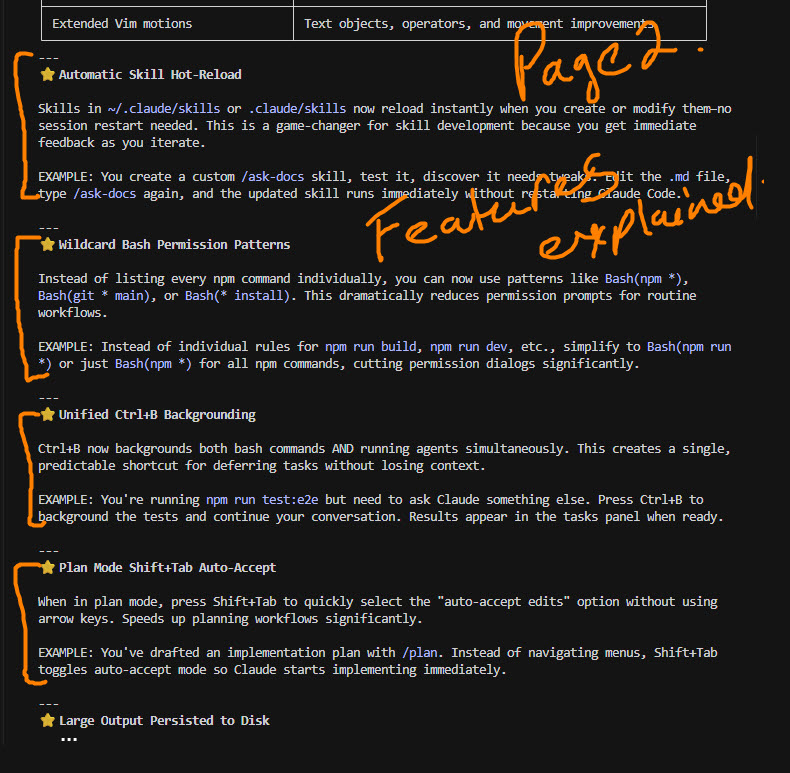
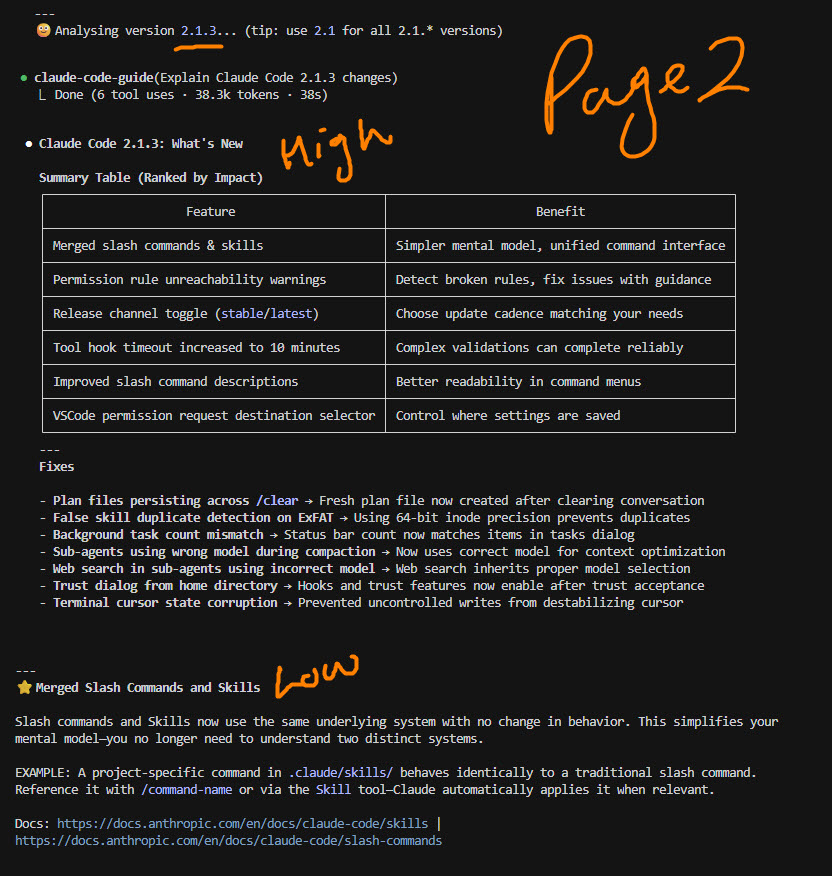
refactor(cc-whats-new): delegate changelog reading to subagent
- Remove inline changelog insertion from main agent prompt
- Have claude-code-guide subagent read /tmp/cc-whats-new-version-changelog.md directly
- Add explicit run_in_background: false instruction

Additional improvements:
- Replace ASCII box tables with standard markdown tables
- Add WebFetch step to consult official Claude Code docs for features
- Structure fixes with explicit Problem → Resolution format
- Add verification step and Docs: citation field to feature template
- Bump version to 0.2.0

Documentation:
- Update all 3 screenshots to reflect new output format
- Revise README alt text to describe each phase (discovery, analysis, explanations)
- Update generation date to 2026/01/13

Reduces main context window usage by avoiding changelog duplication.
Improves output quality through live documentation fetching and structured formatting.

Changed region(s): [[0.0, 0.0, 0.9722, 0.4968], [0.0, 0.5278, 0.9418, 0.9625]]

diff --git a/plugins/cc-whats-new/commands/explain.md b/plugins/cc-whats-new/commands/explain.md
@@ -55,23 +55,21 @@ echo "";
 echo "</latest_version_summary>";
 ```
 
-Analyse data in `<latest_version_summary>` tags and display welcome message using this template (use backticks):
+Analyse data in `<latest_version_summary>` tags to populate template (use backticks and emoji "🙂"):
 
 <welcome_message_template>
 
 # KNOW WHAT CHANGED IN CLAUDE CODE
 
-Claude Code has `[total_versions]` versions within (`[latest]` → `[earliest]`). Most have a **changelog entry** — one or more **items** describing what changed. Your Claude Code version is `[user_version]`.
+Claude Code has `[total_versions]` versions within (`[latest]` → `[earliest]`). Most have a **changelog entry** — one or more **items** describing what changed.
 
-🎁 Latest `[N]` Versions:
+🙂 Latest `[N]` Versions:
 
-┌─────────┬────────────┬───────┬────────────────────────────────────────────────────┐
-│ Version │ Released   │ Items │ Changes At A Glance                                │
-├─────────┼────────────┼───────┼────────────────────────────────────────────────────┤
-│ x.x.xxx │ YYYY-MM-DD │    nn │ Most impactful on user experience (40-60 chars)    │
-│ x.x.xxx │ YYYY-MM-DD │     0 │ (no changelog entry)                               │
-│ ...     │ ...        │   ... │                                                    │
-└─────────┴────────────┴───────┴────────────────────────────────────────────────────┘
+| Version | Released | Items | Changes At A Glance |
+| ------- | -------- | ----- | ------------------- |
+| `x.x.x` | YYYY-MM-DD | nn | Most impactful change (40-50 chars) |
+| `x.x.x` | YYYY-MM-DD | 0 | (no changelog entry) |
+| ... | ... | ... | ... |
 
 *[Short note why version may have zero items (if applicable)]*
 
@@ -114,30 +112,39 @@ else
 fi
 
 echo "$SECTION" > "$VERSION_CHANGELOG_FILE"
-echo "✅ Version changelog ready: $VERSION_CHANGELOG_FILE"
+echo "✅ Version changelog created: $VERSION_CHANGELOG_FILE"
 ```
 
 Proceed to Step 5 where this changelog will be provided to the agent.
 
 ## Step 5: Explain Changes Practically
 
-Use the Task tool to spawn `claude-code-guide` agent. Read the version changelog file and include its contents in the prompt:
+Use the Task tool to spawn `claude-code-guide` agent in **foreground mode** (`run_in_background: false`) with the following prompt:
 
 <agent_prompt>
 
-**GOAL:** Help users use Claude Code more effectively by explaining what's new in version `[VERSION]`.
+**GOAL:** Help users leverage new Claude Code features in version `[VERSION]` — what they mean, why they matter, and how to use them.
 
-Changelog entries:
+Steps:
 
-<changelog_entries>
-{{READ AND INSERT CONTENTS OF `/tmp/cc-whats-new-version-changelog.md` HERE}}
-</changelog_entries>
+1. Read and analyse changelog: `/tmp/cc-whats-new-version-changelog.md`
 
-1. Evaluate which changes highly impact Claude Code user experience.
+2. Evaluate which changes most impact Claude Code users.
 
-2. Create a **Summary table:** "Feature | Benefit". Rank by impact on Claude Code users (most impactful first). Width <100 characters. Group fixes separately if many items.
+3. Create a **Summary table:** "Feature | Benefit". Rank by impact (most impactful first). Width <100 chars.
 
-3. Explain **significant features:** using the `<explain_features_template>` below and your Claude Code Guide knowledge for useful examples.
+4. List **Fixes:** separately e.g.,
+
+    ```
+    **Fixes:**
+    - [Problem ➜ Resolution]
+    - [eg Plan files after /clear ➜ Fresh plan file now used]
+    - [eg Web search model in sub-agents ➜ Uses correct model]
+    ```
+
+5. For each significant feature in the table, use WebFetch to consult official Claude Code documentation for the relevant topic.
+
+6. Explain **significant features** using the template below. Enhance explanations and examples with useful information from the documentation where relevant, and include citations.
 
    <explain_features_template>
 
@@ -149,9 +156,13 @@ Changelog entries:
 
    EXAMPLE: [Practical example helping user see relevance and realise value from this feature.]
 
+   Docs: [Links to official docs if used to enhance content]
+
    ---
 
    </explain_features_template>
+
+7. Verify you have honestly completed steps 1-6
 
 </agent_prompt>
 

diff --git a/plugins/cc-whats-new/README.md b/plugins/cc-whats-new/README.md
@@ -17,30 +17,30 @@ Explains what's new in Claude Code versions with practical examples you can use 
 
 ## In Action
 
-(1) Run the command — Shows changelog summary and impact table:
+(1) Run the command — Shows version summary table (always latest 7):
 
 <div align="center">
   <a href="../../images/cc-whats-new_1.jpg" target="_blank">
-    <img src="../../images/cc-whats-new_1.jpg" alt="Terminal showing /cc-whats-new:explain 2.1 command with changelog summary table displaying versions 2.1.4 to 2.1.0 with release dates and item counts, followed by an Impact Summary table listing features like Automatic skill hot-reload and Wildcard Bash permission patterns with their benefits." width="790">
+    <img src="../../images/cc-whats-new_1.jpg" alt="Version discovery phase: Command invocation shows a summary table of the latest 7 Claude Code versions with release dates, changelog item counts, and one-line descriptions. The requested version is marked with a star. Versions with zero items are explained as npm-only releases. A progress indicator shows analysis beginning." width="832">
   </a>
 </div>
 
-(2) Features explained — Each significant change gets a practical example:
+(2) Impact summary — Features ranked by benefit, fixes listed, then detailed explanations begin:
 
 <div align="center">
   <a href="../../images/cc-whats-new_2.jpg" target="_blank">
-    <img src="../../images/cc-whats-new_2.jpg" alt="Feature explanations with star icons showing Automatic Skill Hot-Reload, Wildcard Bash Permission Patterns, Unified Ctrl+B Backgrounding, and Plan Mode Shift+Tab Auto-Accept. Each feature includes a description and practical EXAMPLE block demonstrating real-world usage." width="790">
+    <img src="../../images/cc-whats-new_2.jpg" alt="High-level analysis phase: A claude-code-guide agent analyses the changelog and produces a Summary Table ranking features by impact (Feature | Benefit columns). A Fixes section lists resolved issues in problem → solution format. Detailed explanations begin below, each marked with a star icon, containing a description, practical EXAMPLE, and documentation links." width="832">
   </a>
 </div>
 
-(3) Ask follow-up questions — Resume the agent to dig deeper:
+(3) Detailed feature explanations continue with examples and doc links:
 
 <div align="center">
   <a href="../../images/cc-whats-new_3.jpg" target="_blank">
-    <img src="../../images/cc-whats-new_3.jpg" alt="User resuming the claude-code-guide agent to ask about the merged slash commands and skills change. The agent explains the difference between before and after version 2.1.3, showing code examples of how permissions syntax changed from SlashCommand and Skill to unified Skill tool." width="790">
+    <img src="../../images/cc-whats-new_3.jpg" alt="Detailed explanations phase: Each significant feature is explained with a star-marked heading, a concise description of what it does and why it matters, a practical EXAMPLE showing real-world usage, and links to official documentation. A closing summary distils the version's theme. Footer shows total execution time." width="832">
   </a>
 </div>
 
 ---
 
-*Generated output on 2026/01/12 — output will vary.*
+*Generated output on 2026/01/13 — output will vary.*
